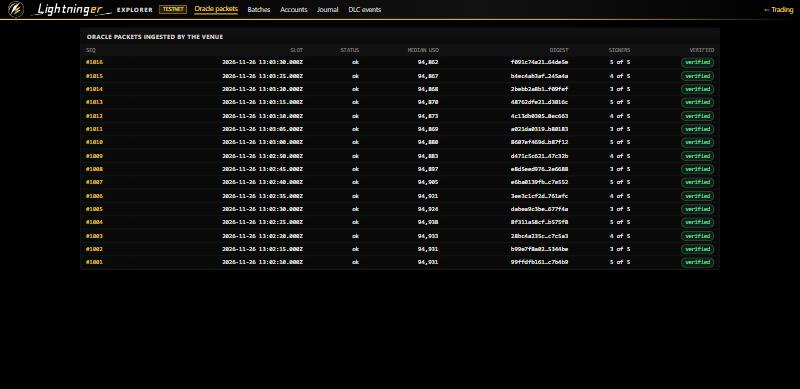
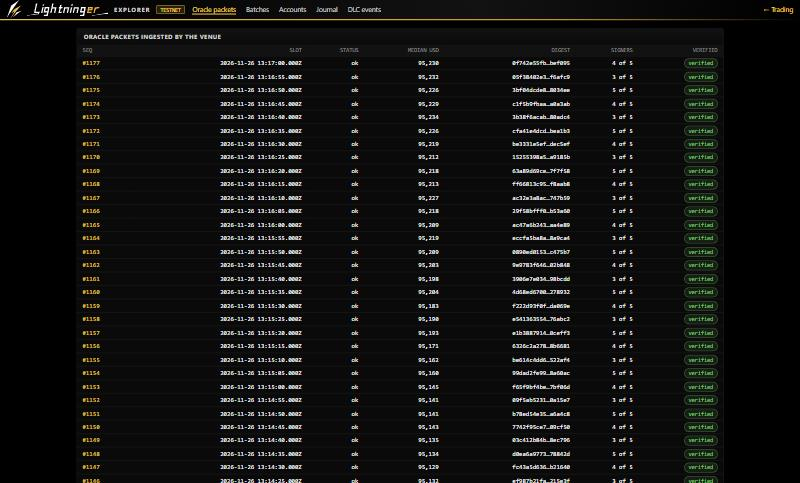
Lightninger brand v2: circle-less shard mark, speed-lines and mono variants, Powered by footer
The three-shard mark (white blade, gold bolt, small white blade) is now the
header mark; the round mark stays as lightninger-mark-round.svg. Adds the
speed-lines mark (wallet modal header), the monochrome mark with the floating
diamond, a black-tile favicon that reads at 16 px, and a Powered by lockup in
the footer of both pages. Price-directional colors (order book bars, tape,
long/short buttons, badges) now use the exact BitcornWisdom og-wisdom chart
red #d94343 and green #66cc66 on the chart's #0b0d10 background; gold stays
chrome-only. Verified on the mock server at 1440 and 375 px (no horizontal
scroll) and node --test on the three ui/venue test files (21 pass).

diff --git a/ui/venue/venue.css b/ui/venue/venue.css
@@ -5,8 +5,10 @@
   --bg-canvas: #000000; --bg-panel: #0a0a0a; --bg-elevated: #121212; --bg-hover: #1a1a1a; --bg-input: #000000;
   --border: #242424; --border-strong: #3a3a3a;
   --text-primary: #ffffff; --text-secondary: #d0d0d0; --text-muted: #8f8f8f;
-  --long: #20d98c; --long-text: #3be8a0; --long-bar: rgba(32, 217, 140, 0.17);
-  --short: #ff4d63; --short-text: #ff6b7e; --short-bar: rgba(255, 77, 99, 0.17);
+  /* up/down: the exact BitcornWisdom og-wisdom chart colors, shared by the chart and every price-directional element. Gold is never used for up/down. */
+  --chart-bg: #0b0d10;
+  --long: #66cc66; --long-text: #66cc66; --long-bar: rgba(102, 204, 102, 0.2);
+  --short: #d94343; --short-text: #e25a5a; --short-bar: rgba(217, 67, 67, 0.22);
   --amber: #f5b301; --amber-text: #ffd23f; --amber-dim: rgba(245, 179, 1, 0.14);
   --accent: #f5b301; --accent-text: #ffd23f; --accent-dim: rgba(245, 179, 1, 0.16);
   --gold: linear-gradient(135deg, #ffd23f, #f5b301 55%, #e09b00);
@@ -24,12 +26,12 @@ button { cursor: pointer; }
 input[type=range] { accent-color: var(--accent); }
 :focus-visible { outline: 2px solid var(--accent); outline-offset: 1px; }
 
-.shell { display: grid; height: 100vh; grid-template-rows: 52px minmax(0, 1fr); }
+.shell { display: grid; height: 100vh; grid-template-rows: 52px minmax(0, 1fr) auto; }
 .top { display: flex; align-items: center; gap: 14px; padding: 0 12px; color: #fff; white-space: nowrap; overflow-x: auto;
   background: linear-gradient(90deg, #000, var(--ink-elevated) 60%, #000); border-bottom: 2px solid transparent;
   border-image: linear-gradient(90deg, #ffd23f, #f5b301 40%, #e09b00 70%, rgba(224, 155, 0, 0)) 1; }
 .top .brand { display: inline-flex; align-items: center; gap: 9px; font-weight: 700; font-size: 13px; letter-spacing: -0.02em; color: #fff; }
-.brand .mk { height: 34px; width: 34px; flex: none; } .brand .wm { height: 24px; width: auto; flex: none; }
+.brand .mk { height: 34px; width: auto; flex: none; } .brand .wm { height: 24px; width: auto; flex: none; }
 .brand .sub { font: 700 11px var(--font-sans); letter-spacing: .12em; text-transform: uppercase; color: var(--text-secondary); }
 .top .brand small, .tag { font: 10px var(--font-mono); padding: 1px 6px; border-radius: 2px; margin-left: 2px; }
 .tag.testnet { background: var(--amber-dim); color: var(--amber-text); border: 1px solid var(--amber); }
@@ -37,7 +39,7 @@ input[type=range] { accent-color: var(--accent); }
 .top .mark { font: 700 17px var(--font-mono); } .top .lbl { font-size: 10px; color: var(--text-muted); text-transform: uppercase; display: block; line-height: 1; }
 .top .grow { flex: 1; }
 .badge { display: inline-flex; align-items: center; gap: 4px; font: 10px var(--font-mono); padding: 2px 7px; border-radius: 10px; border: 1px solid; }
-.badge.ok { color: var(--long-text); border-color: rgba(32, 217, 140, .55); background: rgba(32, 217, 140, .1); }
+.badge.ok { color: var(--long-text); border-color: rgba(102, 204, 102, .55); background: rgba(102, 204, 102, .1); }
 .badge.warn { color: var(--amber-text); border-color: var(--amber); background: var(--amber-dim); }
 .badge.bad { color: var(--short-text); border-color: var(--short); background: var(--short-bar); }
 .top a { color: var(--accent-text); }
@@ -49,7 +51,7 @@ input[type=range] { accent-color: var(--accent); }
 .panel { background: var(--bg-panel); min-height: 0; min-width: 0; display: flex; flex-direction: column; overflow: hidden; }
 .panel > h3 { margin: 0; padding: 6px 10px; font-size: 10px; letter-spacing: .06em; text-transform: uppercase; color: var(--text-secondary);
   background: linear-gradient(180deg, var(--bg-elevated), var(--bg-panel)); border-bottom: 1px solid var(--border); display: flex; justify-content: space-between; align-items: center; }
-.chart { grid-column: 1; grid-row: 1; background: var(--ink-canvas); } .chart iframe { flex: 1; width: 100%; border: 0; background: var(--ink-canvas); }
+.chart { grid-column: 1; grid-row: 1; background: var(--chart-bg); } .chart iframe { flex: 1; width: 100%; border: 0; background: var(--chart-bg); }
 .bookcol { grid-column: 2; grid-row: 1 / span 2; } .formcol { grid-column: 3; grid-row: 1 / span 2; overflow-y: auto; } .bottom { grid-column: 1; grid-row: 2; }
 
 .book { flex: 1; min-height: 0; display: flex; flex-direction: column; }
@@ -72,14 +74,14 @@ input[type=range] { accent-color: var(--accent); }
 .tabs button.on { color: var(--accent-text); border-bottom-color: var(--accent); font-weight: 600; }
 .sides { display: grid; grid-template-columns: 1fr 1fr; gap: 6px; }
 .sides button { padding: 8px; border: 1px solid var(--border-strong); background: var(--bg-elevated); border-radius: 3px; font-weight: 600; color: var(--text-secondary); }
-.sides button.long.on { background: var(--long); color: #00281a; border-color: var(--long); } .sides button.short.on { background: var(--short); color: #fff; border-color: var(--short); }
+.sides button.long.on { background: var(--long); color: #06210a; border-color: var(--long); } .sides button.short.on { background: var(--short); color: #fff; border-color: var(--short); }
 label.f { display: grid; gap: 3px; font-size: 10px; color: var(--text-muted); text-transform: uppercase; }
 label.f input[type=text], label.f input[type=number], label.f textarea { border: 1px solid var(--border-strong); border-radius: 3px; padding: 6px 8px; background: var(--bg-input); font: 12px var(--font-mono); color: var(--text-primary); text-transform: none; }
 label.f input:focus { outline: 2px solid var(--accent-dim); border-color: var(--accent); }
 .est { background: var(--bg-elevated); border: 1px solid var(--border); border-radius: 3px; padding: 6px 8px; display: grid; gap: 2px; font: 11px var(--font-mono); }
 .est div { display: flex; justify-content: space-between; }
 .go { padding: 10px; border: 0; border-radius: 3px; font-weight: 700; color: #fff; }
-.go.long { background: linear-gradient(180deg, var(--long), #14b172); color: #00281a; } .go.short { background: linear-gradient(180deg, var(--short), #d63a50); }
+.go.long { background: linear-gradient(180deg, var(--long), #4fb04f); color: #06210a; } .go.short { background: linear-gradient(180deg, var(--short), #b83333); }
 .go:disabled { opacity: .45; cursor: not-allowed; }
 .btn { border: 1px solid var(--border-strong); background: var(--bg-elevated); border-radius: 3px; padding: 4px 9px; }
 .btn:hover { background: var(--bg-hover); border-color: var(--accent); } .btn.sm { padding: 1px 6px; font-size: 11px; }
@@ -123,3 +125,9 @@ td { padding: 3px 10px; text-align: right; border-bottom: 1px solid var(--border
 .risk.ok { color: var(--long-text); border-color: var(--long); }
 .risk.warning { color: var(--amber-text); border-color: var(--amber); background: var(--amber-dim); }
 .risk.maintenance, .risk.bankrupt { color: var(--short-text); border-color: var(--short); background: var(--short-bar); }
+
+/* footer lockup */
+.foot { display: flex; justify-content: flex-end; align-items: center; padding: 4px 12px; border-top: 1px solid var(--border); background: var(--bg-panel); }
+.foot img { height: 28px; width: auto; display: block; }
+.mhead .mk { height: 26px; width: auto; margin-right: 10px; }
+.mhead .ttl { display: flex; align-items: center; }

diff --git a/ui/venue/index.html b/ui/venue/index.html
@@ -51,8 +51,9 @@
       <div class="scroll" id="bpane"></div>
     </section>
   </main>
+  <footer class="foot"><img src="brand/lightninger-powered-by.svg" alt="Powered by Lightninger"></footer>
 </div>
-<div id="wmodal" class="modal" hidden role="dialog" aria-modal="true" aria-labelledby="wmtitle"><div class="mbox"><div class="mhead"><h2 id="wmtitle">Connect wallet</h2><button id="wmclose" class="btn sm" type="button" aria-label="Close">&times;</button></div><div id="wmbody"></div></div></div>
+<div id="wmodal" class="modal" hidden role="dialog" aria-modal="true" aria-labelledby="wmtitle"><div class="mbox"><div class="mhead"><span class="ttl"><img class="mk" src="brand/lightninger-mark-speed.svg" alt=""><h2 id="wmtitle">Connect wallet</h2></span><button id="wmclose" class="btn sm" type="button" aria-label="Close">&times;</button></div><div id="wmbody"></div></div></div>
 <script type="module" src="venue.js"></script>
 </body>
 </html>

diff --git a/ui/venue/explorer.html b/ui/venue/explorer.html
@@ -30,6 +30,7 @@
   <a href="index.html">&larr; Trading</a>
 </header>
 <div class="wrap" id="view"><div class="empty">Loading&hellip;</div></div>
+<footer class="foot"><img src="brand/lightninger-powered-by.svg" alt="Powered by Lightninger"></footer>
 <script type="module" src="explorer.js"></script>
 </body>
 </html>
